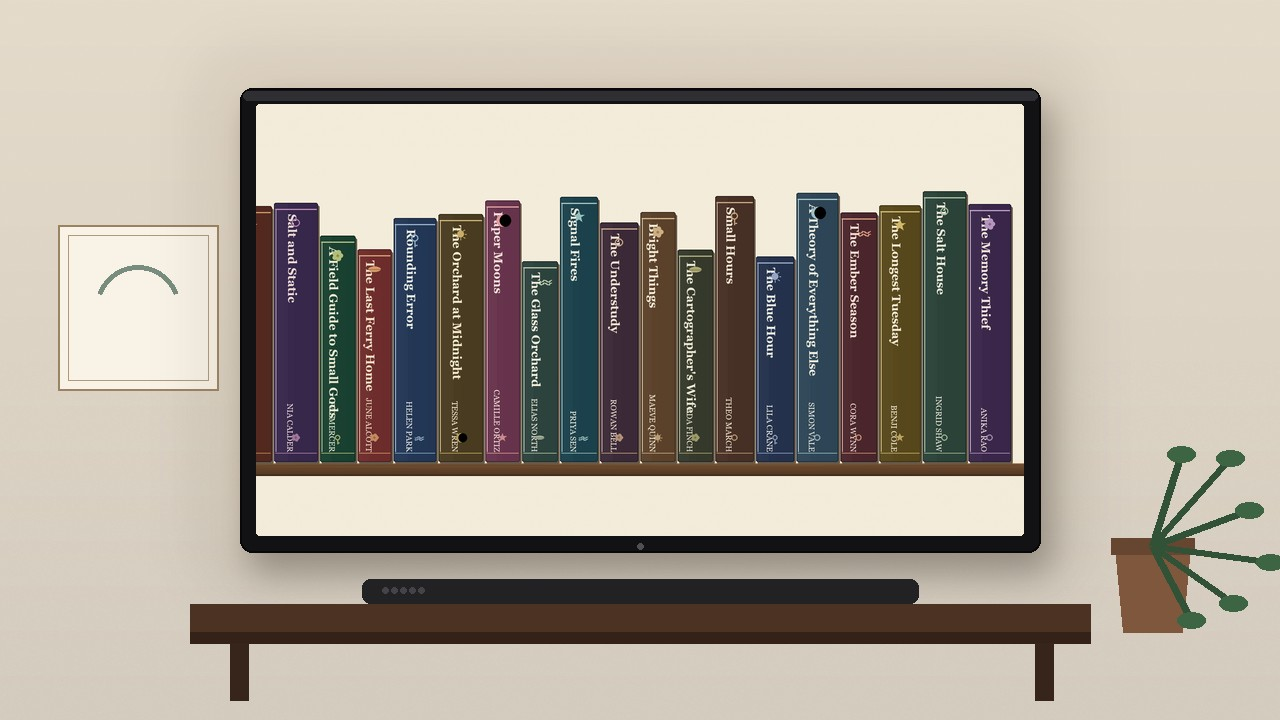
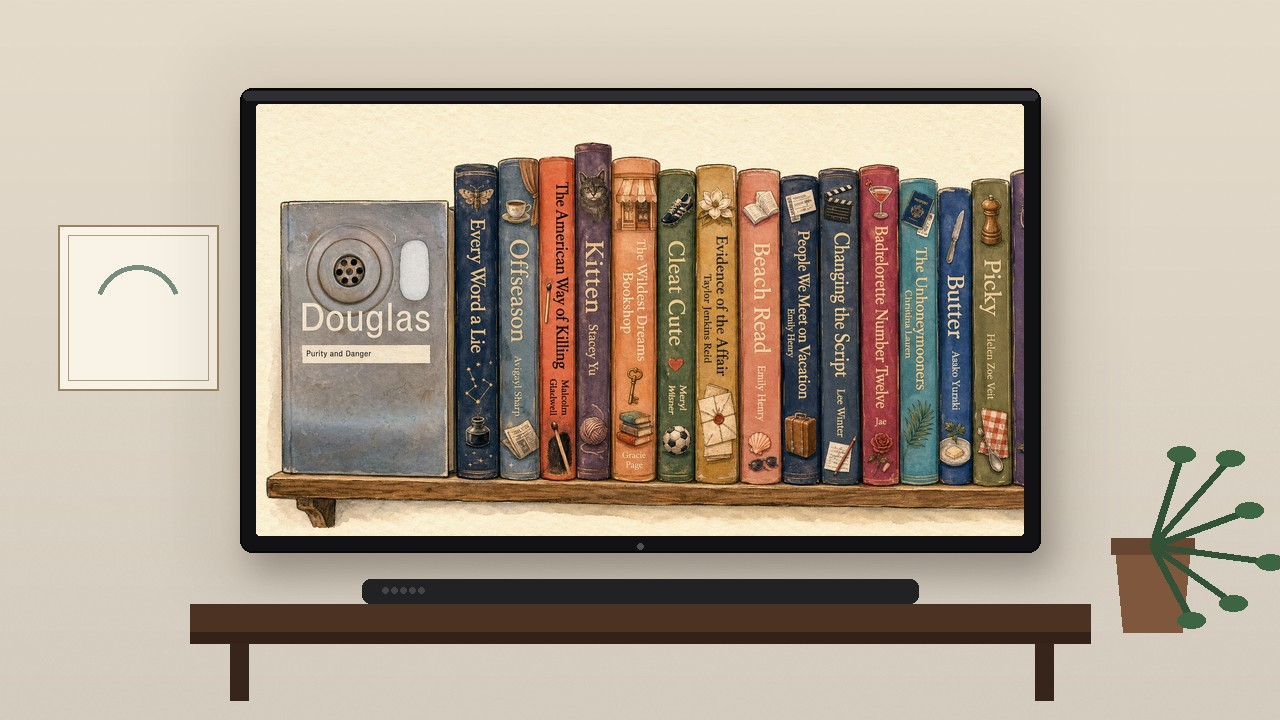
Use the real generated shelf in the README hero

Changed region(s): [[0.1875, 0.1833, 0.8125, 0.7333]]

diff --git a/tools/make_demo_assets.py b/tools/make_demo_assets.py
@@ -1,12 +1,13 @@
-"""Create the README hero image and animated GIF without external image APIs.
+"""Create the README hero image and animated GIF.
 
-The demo shelf uses invented books so the public repository never contains the
-owner's actual reading history. Everything is drawn locally with Pillow.
+By default this draws a fictional demo shelf so forks can build the README
+without a personal library. Pass --poster to use a real generated poster:
 
-    python tools/make_demo_assets.py
+    python tools/make_demo_assets.py --poster output/current.jpg
 """
 from __future__ import annotations
 
+import argparse
 import math
 from pathlib import Path
 
@@ -361,8 +362,8 @@ def make_hero(poster: Image.Image, room: Image.Image,
         frame.paste(crop, (screen_x, screen_y), mask)
         frames.append(frame)
 
-    frames[steps // 2].save(DOCS / "hero.jpg", "JPEG", quality=90, optimize=True,
-                            progressive=True)
+    frames[0].save(DOCS / "hero.jpg", "JPEG", quality=90, optimize=True,
+                   progressive=True)
     gif_frames = [frame.resize((960, 540), Image.Resampling.LANCZOS) for frame in frames]
     hero_path = DOCS / "hero.gif"
     gif_frames[0].save(hero_path, save_all=True, append_images=gif_frames[1:], duration=220,
@@ -370,8 +371,32 @@ def make_hero(poster: Image.Image, room: Image.Image,
     print(f"Wrote {hero_path} ({hero_path.stat().st_size // 1024} KiB)")
 
 
+def load_poster(path: Path) -> Image.Image:
+    image = Image.open(path).convert("RGB")
+    if image.size != (WIDTH, HEIGHT):
+        # The service always writes this size; accept close variants for forks.
+        ratio = WIDTH / HEIGHT
+        source_ratio = image.width / image.height
+        if abs(source_ratio - ratio) > 0.005:
+            if source_ratio > ratio:
+                new_width = int(round(image.height * ratio))
+                left = (image.width - new_width) // 2
+                image = image.crop((left, 0, left + new_width, image.height))
+            else:
+                new_height = int(round(image.width / ratio))
+                top = (image.height - new_height) // 2
+                image = image.crop((0, top, image.width, top + new_height))
+        image = image.resize((WIDTH, HEIGHT), Image.Resampling.LANCZOS)
+    print(f"Using real poster {path} ({image.size[0]}x{image.size[1]})")
+    return image
+
+
 def main() -> None:
-    poster = render_poster()
+    parser = argparse.ArgumentParser()
+    parser.add_argument("--poster", type=Path, default=None,
+                        help="Use a real generated 21:9 poster instead of the demo shelf")
+    args = parser.parse_args()
+    poster = load_poster(args.poster) if args.poster else render_poster()
     room, screen = make_room()
     make_hero(poster, room, screen)
 

diff --git a/README.md b/README.md
@@ -2,7 +2,7 @@
 
 ![Bookshelf screensaver on a wall-mounted TV](docs/hero.gif)
 
-*Demo shelf uses invented books; your generated shelf uses your own library.*
+*The shelf preview is generated from a real Audiobookshelf library.*
 
 A small, self-hosted service that turns your most recent Audiobookshelf listens into a
 hand-painted bookshelf poster for a Fire TV screensaver.
